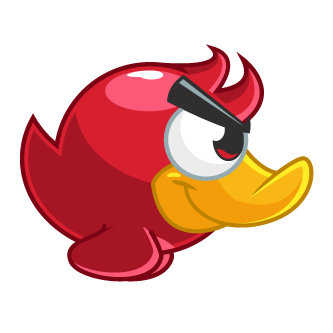
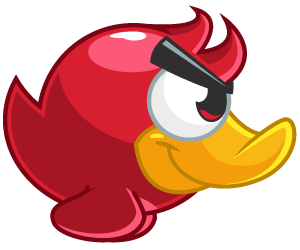
feat: bird image with poses

diff --git a/components/Physics.js b/components/Physics.js
@@ -4,7 +4,6 @@ import Constants from './Constants';
 import { Pipe } from './bodies';
 
 let tick = 0;
-let pose = 1;
 let pipes = 0;
 
 export const resetPipes = () => {
@@ -100,7 +99,7 @@ const addPipesAtLocation = (x, world, entities) => {
 
 const Physics = (entities, { touches, time, dispatch }) => {
   const { engine, world } = entities.physics;
-  const bird = entities.bird.body;
+  const birdBody = entities.bird.body;
 
   let hadTouch = false;
   touches
@@ -120,8 +119,8 @@ const Physics = (entities, { touches, time, dispatch }) => {
             entities
           );
         }
-        Matter.Body.setVelocity(bird, {
-          x: bird.velocity.x,
+        Matter.Body.setVelocity(birdBody, {
+          x: birdBody.velocity.x,
           y: -8,
         });
         hadTouch = true;
@@ -129,6 +128,15 @@ const Physics = (entities, { touches, time, dispatch }) => {
     });
 
   Matter.Engine.update(engine, time.delta);
+
+  tick++;
+  const bird = entities.bird;
+  if (tick % 10 === 0) {
+    bird.pose++;
+    if (bird.pose > 3) {
+      bird.pose = 1;
+    }
+  }
 
   Object.keys(entities).forEach((key) => {
     if (key.includes('pipe') && entities.hasOwnProperty(key)) {

diff --git a/components/bodies/Bird.js b/components/bodies/Bird.js
@@ -1,5 +1,7 @@
 import React, { Component } from 'react';
-import { View } from 'react-native';
+import { View, Image } from 'react-native';
+
+import { bird1, bird2, bird3 } from '../../assets/images';
 
 export default class Bird extends Component {
   render() {
@@ -10,16 +12,25 @@ export default class Bird extends Component {
     const x = position.x - width / 2;
     const y = position.y - height / 2;
 
+    const birdPoses = {
+      1: bird1,
+      2: bird2,
+      3: bird3,
+    };
+
+    const image = birdPoses[this.props.pose];
+
     return (
-      <View
+      <Image
         style={{
           position: 'absolute',
           top: y,
           left: x,
           width,
           height,
-          backgroundColor: this.props.color,
         }}
+        source={image}
+        resizeMode="stretch"
       />
     );
   }

diff --git a/App.js b/App.js
@@ -29,8 +29,8 @@ export default class App extends Component {
     const bird = Matter.Bodies.rectangle(
       Constants.MAX_WIDTH / 2,
       Constants.MAX_HEIGHT / 2,
-      50,
-      50
+      Constants.BIRD_WIDTH,
+      Constants.BIRD_HEIGHT
     );
     const floor1 = Matter.Bodies.rectangle(
       Constants.MAX_WIDTH / 2,
@@ -56,7 +56,7 @@ export default class App extends Component {
 
     return {
       physics: { engine, world },
-      bird: { body: bird, color: 'red', renderer: Bird },
+      bird: { body: bird, pose: 1, renderer: Bird },
       floor1: { body: floor1, renderer: Floor },
       floor2: { body: floor2, renderer: Floor },
     };

diff --git a/components/Constants.js b/components/Constants.js
@@ -5,4 +5,6 @@ export default Constants = {
   MAX_HEIGHT: Dimensions.get('screen').height,
   GAP_SIZE: 250, // gap btw pipes
   PIPE_WIDTH: 100, // pipe width
+  BIRD_WIDTH: 50,
+  BIRD_HEIGHT: 41,
 };
